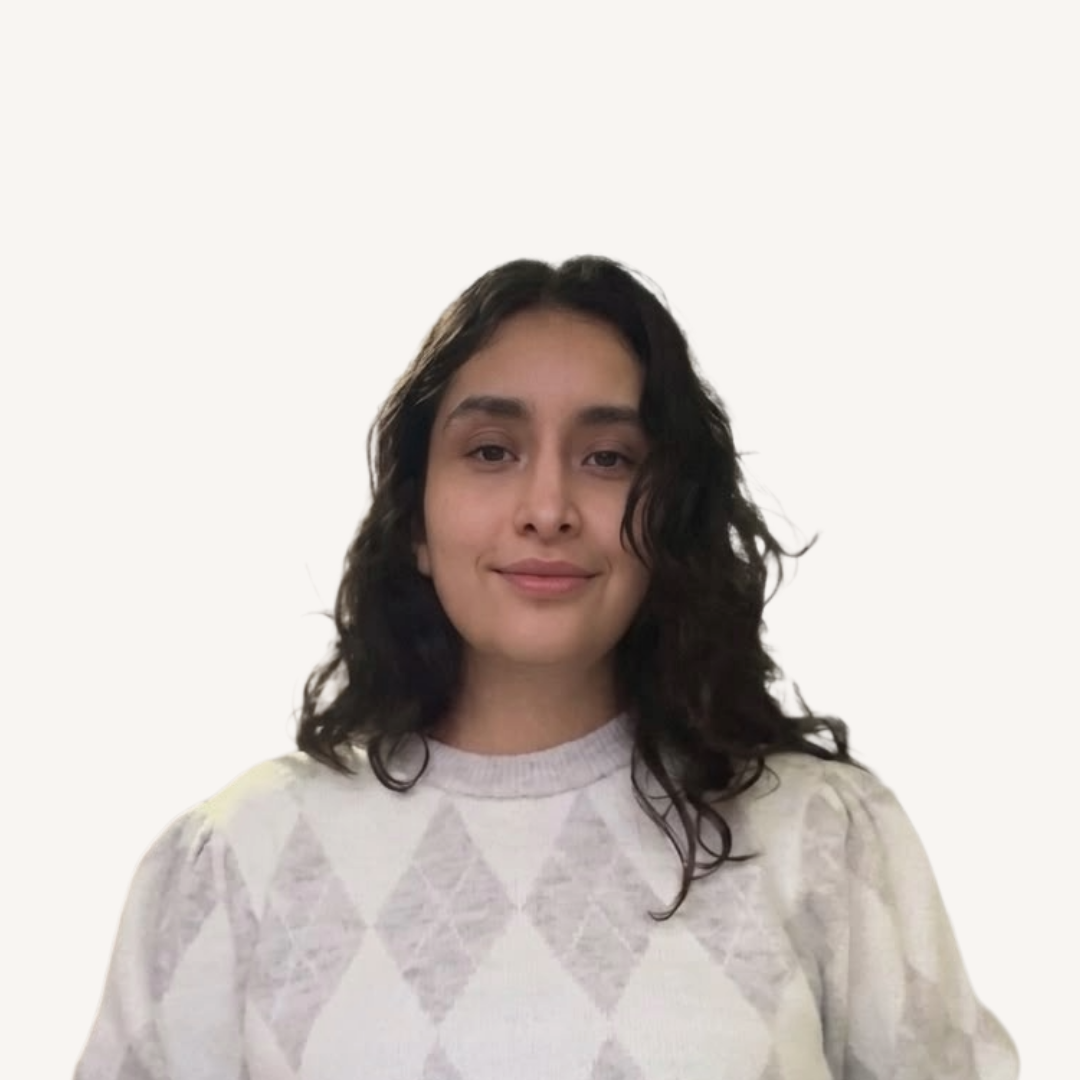
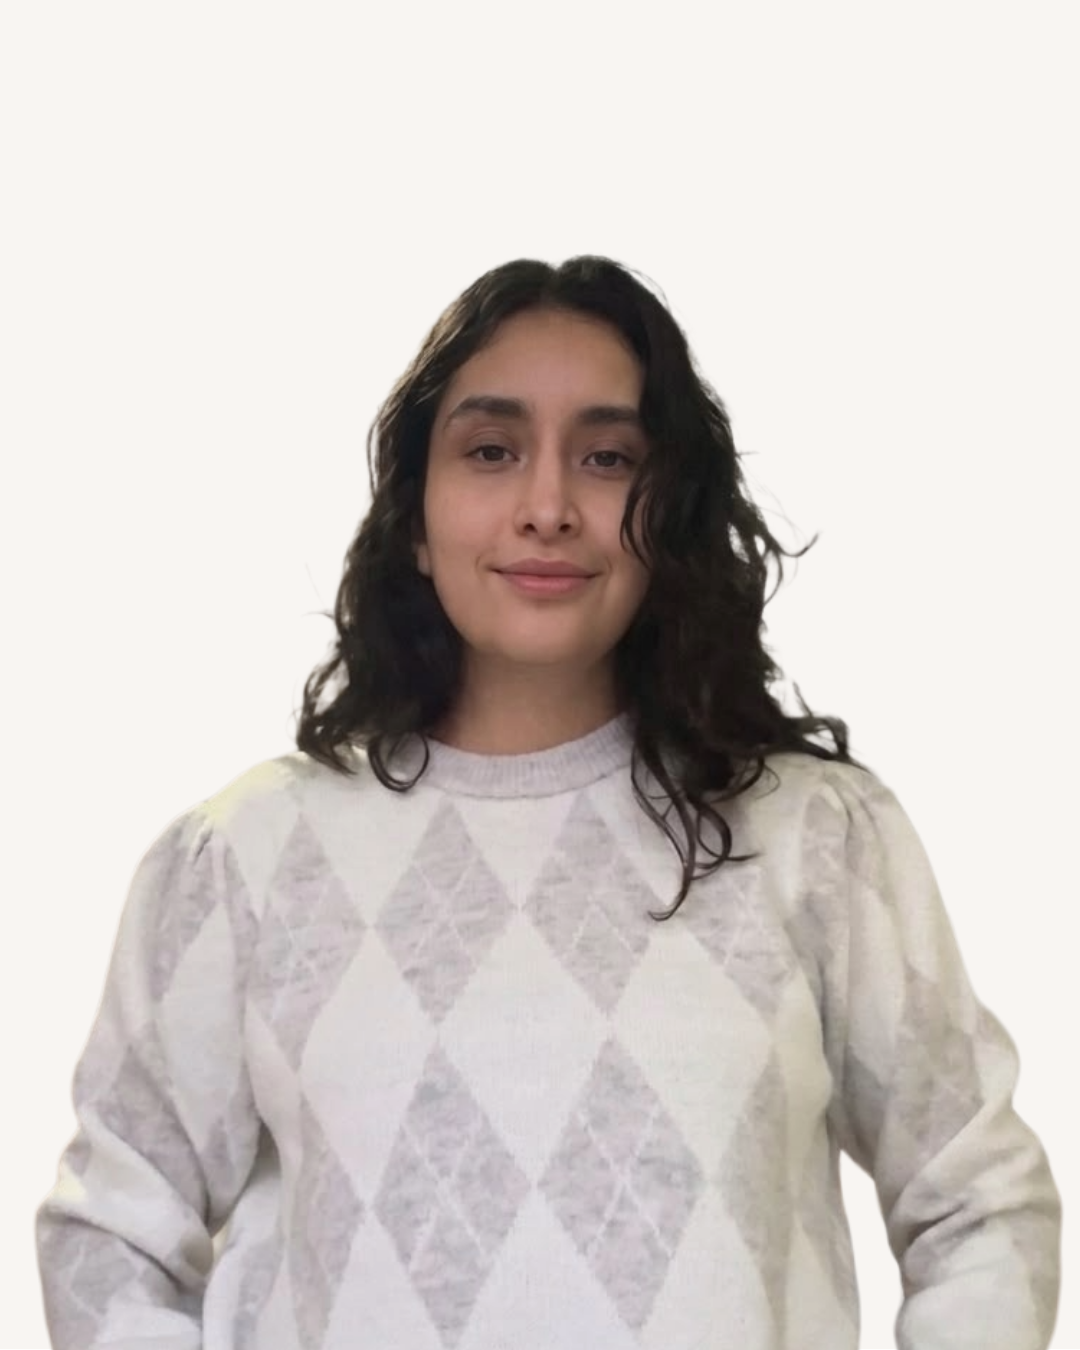
Usar foto rectangular completa del equipo, sin marco gris
Reemplaza el recorte cuadrado por la imagen OFICIAL completa (4:5)
y quita el fondo gris/padding de la tarjeta: la foto ahora llena
todo el espacio con object-cover.

diff --git a/src/components/ui/TeamCard.tsx b/src/components/ui/TeamCard.tsx
@@ -13,14 +13,14 @@ function iniciales(nombre: string) {
 export function TeamCard({ miembro }: { miembro: MiembroEquipo }) {
   return (
     <div className="group">
-      <div className="relative aspect-square overflow-hidden bg-stone-200">
+      <div className="relative aspect-[4/5] overflow-hidden">
         {miembro.foto ? (
           <Image
             src={miembro.foto}
             alt={miembro.nombre}
             fill
             sizes="(min-width: 1024px) 33vw, 100vw"
-            className="object-contain object-bottom p-4"
+            className="object-cover"
           />
         ) : (
           <div className="flex h-full w-full flex-col items-center justify-center gap-3 border border-dashed border-stone-400 bg-stone-100 text-stone-400">
